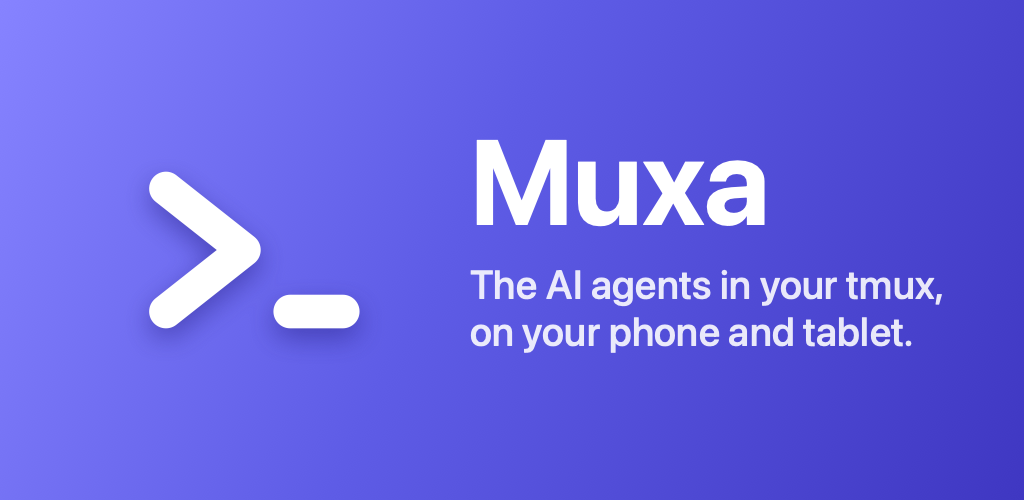
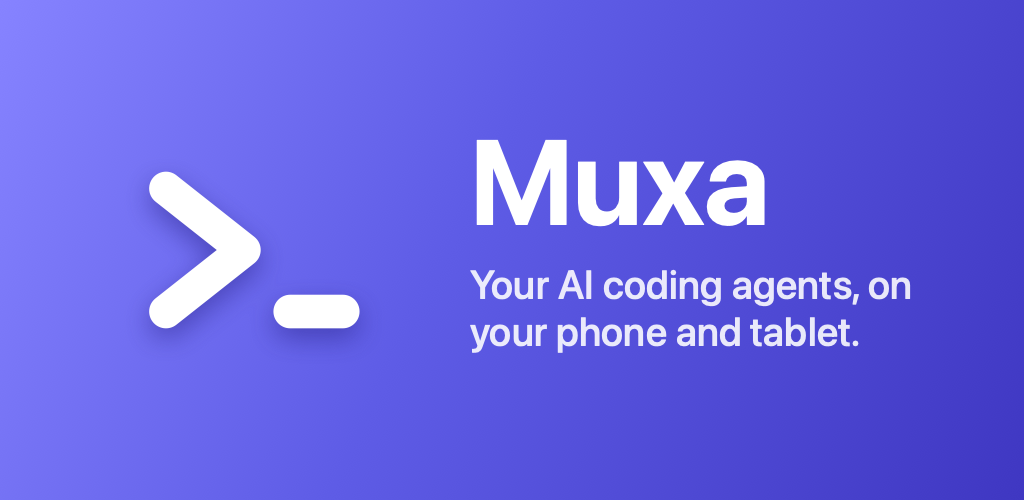
docs: store listings describe muxa on herdr-core

Changed region(s): [[0.4375, 0.54, 0.9375, 0.72]]

diff --git a/apple/Muxa/Art/frame-screenshots.swift b/apple/Muxa/Art/frame-screenshots.swift
@@ -19,7 +19,7 @@ let touch: [String: [String: (String, String)]] = [
         "6-shell": ("The shell is one tap away", "Switch between the agent and its shell."),
     ],
     "ja": [
-        "1-chat": ("いつものエージェントと、手元で話す", "tmuxで動くエージェントを、ネイティブのチャットで。"),
+        "1-chat": ("いつものエージェントと、手元で話す", "マシンで動くエージェントを、ネイティブのチャットで。"),
         "3-switcher": ("どのエージェントにも、タップ1つで", "実行中・回答待ち・完了がひと目でわかる。"),
         "4-plan": ("エージェントが書いたプランを読む", "Markdownも図も、オフラインで表示。"),
         "6-shell": ("シェルもタップ1つで", "エージェントとシェルを行き来。"),
@@ -41,7 +41,7 @@ let targets: [String: Target] = [
             "6-shell": ("The shell is one key away", "Ctrl+Shift+J switches between the agent and its shell."),
         ],
         "ja": [
-            "1-chat": ("いつものエージェントと、タブレットで話す", "tmuxで動くエージェントを、ネイティブのチャットで。"),
+            "1-chat": ("いつものエージェントと、タブレットで話す", "マシンで動くエージェントを、ネイティブのチャットで。"),
             "3-switcher": ("どのエージェントにも、キー1つで", "Ctrl+Shift+Kで、実行中・回答待ち・完了がひと目でわかる。"),
             "4-plan": ("エージェントが書いたプランを読む", "Markdownも図も、タブレットの上で表示。"),
             "6-shell": ("シェルもキー1つで", "Ctrl+Shift+Jで、エージェントとシェルを行き来。"),
@@ -66,7 +66,7 @@ let order = ["1-chat", "2-agent", "3-switcher", "7-alert", "4-plan", "5-diff", "
 /// Caption and subtitle per screenshot, per locale, as the iPad shows them.
 let captions: [String: [String: (String, String)]] = [
     "en": [
-        "1-chat": ("Talk to the agents you already run", "The agents in your tmux, as a native chat."),
+        "1-chat": ("Talk to the agents you already run", "The agents on your machine, as a native chat."),
         "2-agent": ("The real pane, at its real size", "Your desktop layout never changes."),
         "3-switcher": ("Every agent, one keystroke away", "⌘K shows who is running, waiting or done."),
         "7-alert": ("Know when an agent needs you", "A banner when another session waits for your answer."),
@@ -75,7 +75,7 @@ let captions: [String: [String: (String, String)]] = [
         "6-shell": ("The shell is one key away", "⌘J switches between the agent and its shell."),
     ],
     "ja": [
-        "1-chat": ("いつものエージェントと、iPadで話す", "tmuxで動くエージェントを、ネイティブのチャットで。"),
+        "1-chat": ("いつものエージェントと、iPadで話す", "マシンで動くエージェントを、ネイティブのチャットで。"),
         "2-agent": ("本物のペインを、本来のサイズで", "デスクトップのレイアウトは一切変わりません。"),
         "3-switcher": ("どのエージェントにも、キー1つで", "⌘Kで、実行中・回答待ち・完了がひと目でわかる。"),
         "7-alert": ("エージェントに呼ばれたら、すぐわかる", "別のセッションが回答を待つと、バナーで知らせます。"),

diff --git a/apple/Muxa/Art/app-icon.swift b/apple/Muxa/Art/app-icon.swift
@@ -240,8 +240,8 @@ func featureGraphic(tagline: String) -> CGImage {
 
 /// Per Play listing locale.
 let taglines = [
-    "en-US": "The AI agents in your tmux, on your phone and tablet.",
-    "ja-JP": "tmuxのAIエージェントを、スマホとタブレットで。",
+    "en-US": "Your AI coding agents, on your phone and tablet.",
+    "ja-JP": "コーディングエージェントを、\nスマホとタブレットで。",
 ]
 
 guard CommandLine.arguments.count == 4 else {

diff --git a/store/RELEASE.md b/store/RELEASE.md
@@ -7,7 +7,7 @@ Everything a human enters in App Store Connect and the Play Console, in order. T
 | App Store text | `store/apple/{en-US,ja}/*.txt`; review notes in `store/apple/review_information/notes.txt` |
 | Play text | `store/play/{en-US,ja-JP}/*.txt`; reviewer steps in `store/play/app_access.txt` |
 | Play icon and feature graphic | `store/play/{en-US,ja-JP}/images/` (`make app-icon`) |
-| Screenshots | none yet for the v2 apps: `make screenshots` and `make screenshots-android` went with the v1 screens (`docs/plan.md`, D4 and D5) |
+| Screenshots | not taken yet for Home and Focus (see [Screenshots](#screenshots)) |
 | Privacy policy | `docs/privacy.md`, URL `https://github.com/xdgetech/muxa/blob/main/docs/privacy.md` |
 
 `make lint-store` (part of `make check`) checks every length limit and that the listing never says "demo" or "trial". App Review guideline 2.2 rejects trial versions, so the store text calls the built-in demo a "sample workspace".
@@ -17,12 +17,29 @@ Everything a human enters in App Store Connect and the Play Console, in order. T
 **$9.99, paid once, on both stores.** In Japan: ¥1,500.
 
 - muxa has no server, so there is no running cost for a subscription to pay for. Developers pushed back when Blink moved to a subscription.
-- It costs less than Prompt 3 ($20 a year or $100 once) and Termius (about $10 a month). It costs more than the free tools (Happy, ServerCC). The listing names what they lack: the real pane at its size, the layout never changing, the Reader, and approval cards.
+- It costs less than Prompt 3 ($20 a year or $100 once) and Termius (about $10 a month). It costs more than the free tools (Happy, ServerCC). The listing names what they lack: one Inbox in your order, the terminal at its real size, the Reader, Task Loops, Routines and approval cards.
 - The sample workspace lets people see the app before they pay.
 - A paid Play app can later become free, but a free one can never become paid. So start paid.
 - **Later, if few people buy:** a launch discount, or a free app with a one-time unlock. That needs StoreKit and Play Billing code, so it is not in 1.0.
 
 Fees: Apple's Small Business Program and Google's 15% tier each take 15% instead of 30%. Both need enrolling (below).
+
+## Screenshots
+
+There is no screenshot target for Home and Focus yet. `make screenshots` and `make screenshots-android` went with the v1 screens, and no UI test saves screenshots today. Take them by hand:
+
+1. Start Try the Demo on each device below. Debug Android builds start it with `adb shell am start -n tech.xdge.muxa/tech.xdge.muxa.app.MainActivity --ez demo true`.
+2. Show Home with the Inbox and Needs you, Focus with a terminal, Chat with the approval card, the Reader, a Task Loop, and Routines.
+3. Save each image into the folder the table below names, one folder per language.
+
+| Store slot | Device | Folder |
+|---|---|---|
+| App Store iPad 13" | iPad simulator, landscape | `build/screenshots/appstore-ipad/{en,ja}/` |
+| App Store iPhone 6.9" | iPhone simulator, portrait | `build/screenshots/appstore-iphone/{en,ja}/` |
+| Play phone | phone emulator, portrait | `build/screenshots/play-phone/{en,ja}/` |
+| Play 7- and 10-inch tablet | tablet emulator, landscape | `build/screenshots/play-tablet/{en,ja}/` |
+
+`apple/Muxa/Art/frame-screenshots.swift` puts a caption over each image at the store's size. Its captions still name the v1 screens: rewrite them for the new set before you use it.
 
 ## Before the first upload
 
@@ -166,5 +183,5 @@ An organization account needs no closed test before production. A personal accou
    - iOS: `CURRENT_PROJECT_VERSION` in `apple/Muxa/project.yml`, and `MARKETING_VERSION` for a new version.
    - Android: `versionCode`, and `versionName`, in `android/app/build.gradle.kts`.
 2. Add `store/play/*/changelogs/<versionCode>.txt`, and update both `release_notes.txt`.
-3. New screenshots if the UI changed. The v2 apps have no screenshot target yet.
+3. New screenshots if the UI changed ([Screenshots](#screenshots)).
 4. Build and upload as above.

diff --git a/docs/plan.md b/docs/plan.md
@@ -2,7 +2,7 @@
 
 ## Status
 
-Pre-alpha. The daemon, the terminal client, the iPad and iPhone app, the Android app and the Mac app work; the iOS app runs on a real iPad and iPhone, the Android app on phones and tablets. The privacy policy and release settings are ready (`store/RELEASE.md`). The store listings' text and screenshots still describe the removed tmux client and need new copy. No app is published yet.
+Pre-alpha. The daemon, the terminal client, the iPad and iPhone app, the Android app and the Mac app work; the iOS app runs on a real iPad and iPhone, the Android app on phones and tablets. The privacy policy, release settings and the store listings' text are ready (`store/RELEASE.md`). The screenshots of Home and Focus are not taken yet; a human takes them by hand. The app name on both stores, "Muxa: AI agents in tmux", still names tmux. No app is published yet.
 
 Since F5 (2026-11-22), muxa runs on herdr-core only: protocol v1, tmux, muxa for tmux, the v1 Task records, restart and handoff, park and workers' v1 launch paths are gone (ADR 0071).
 
